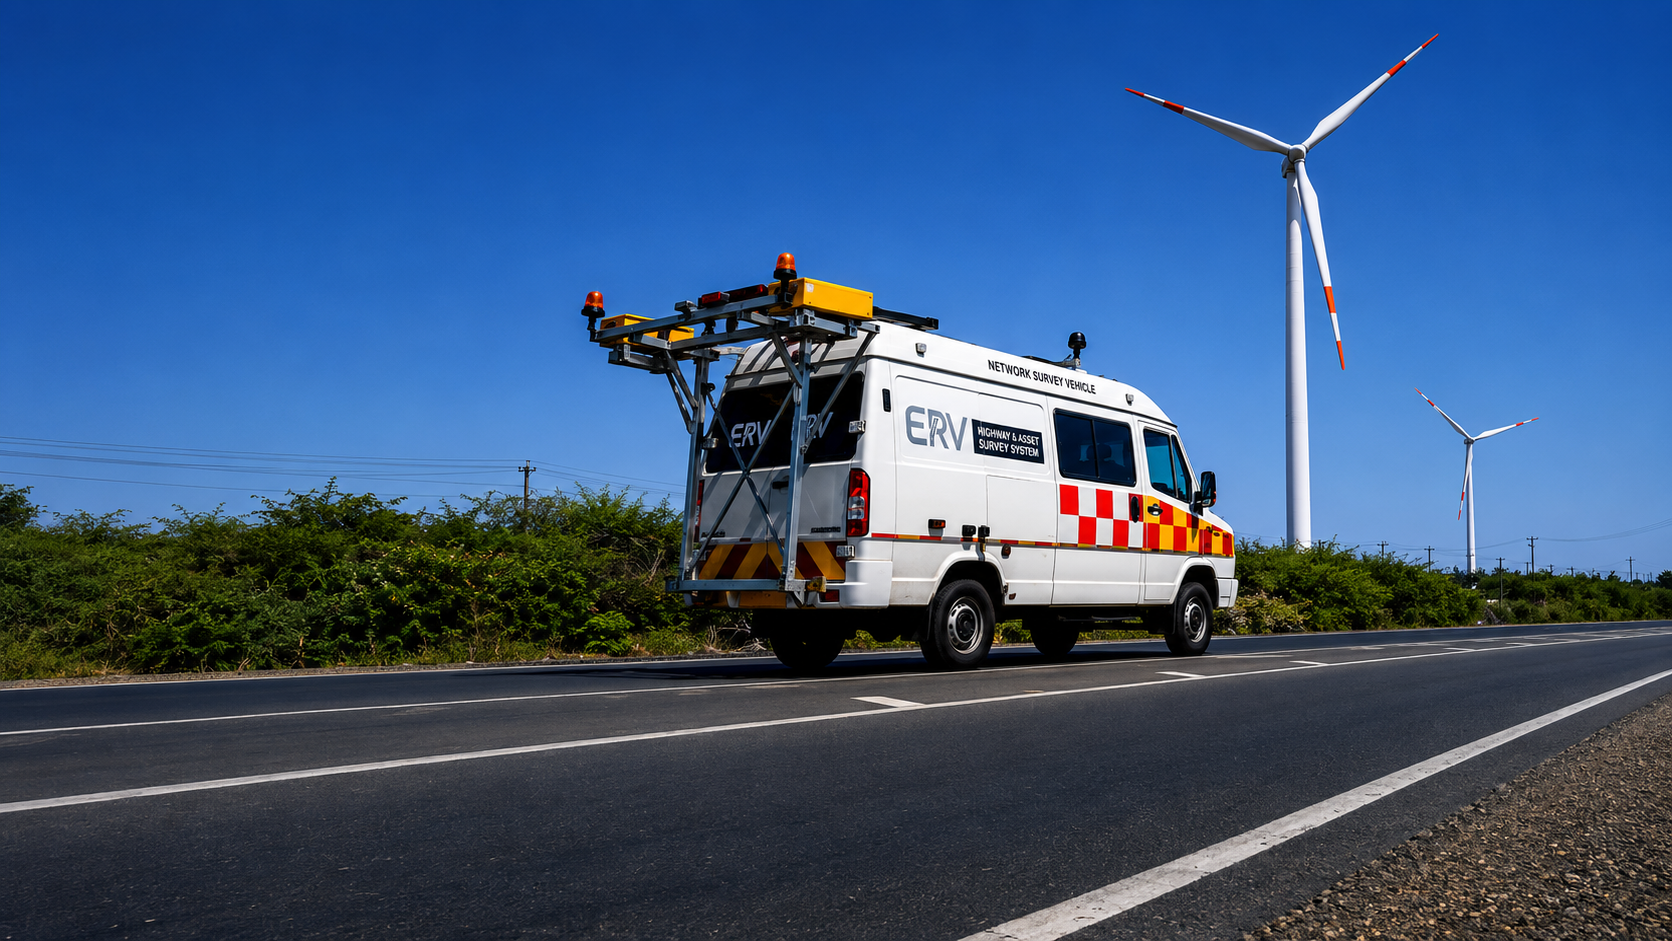
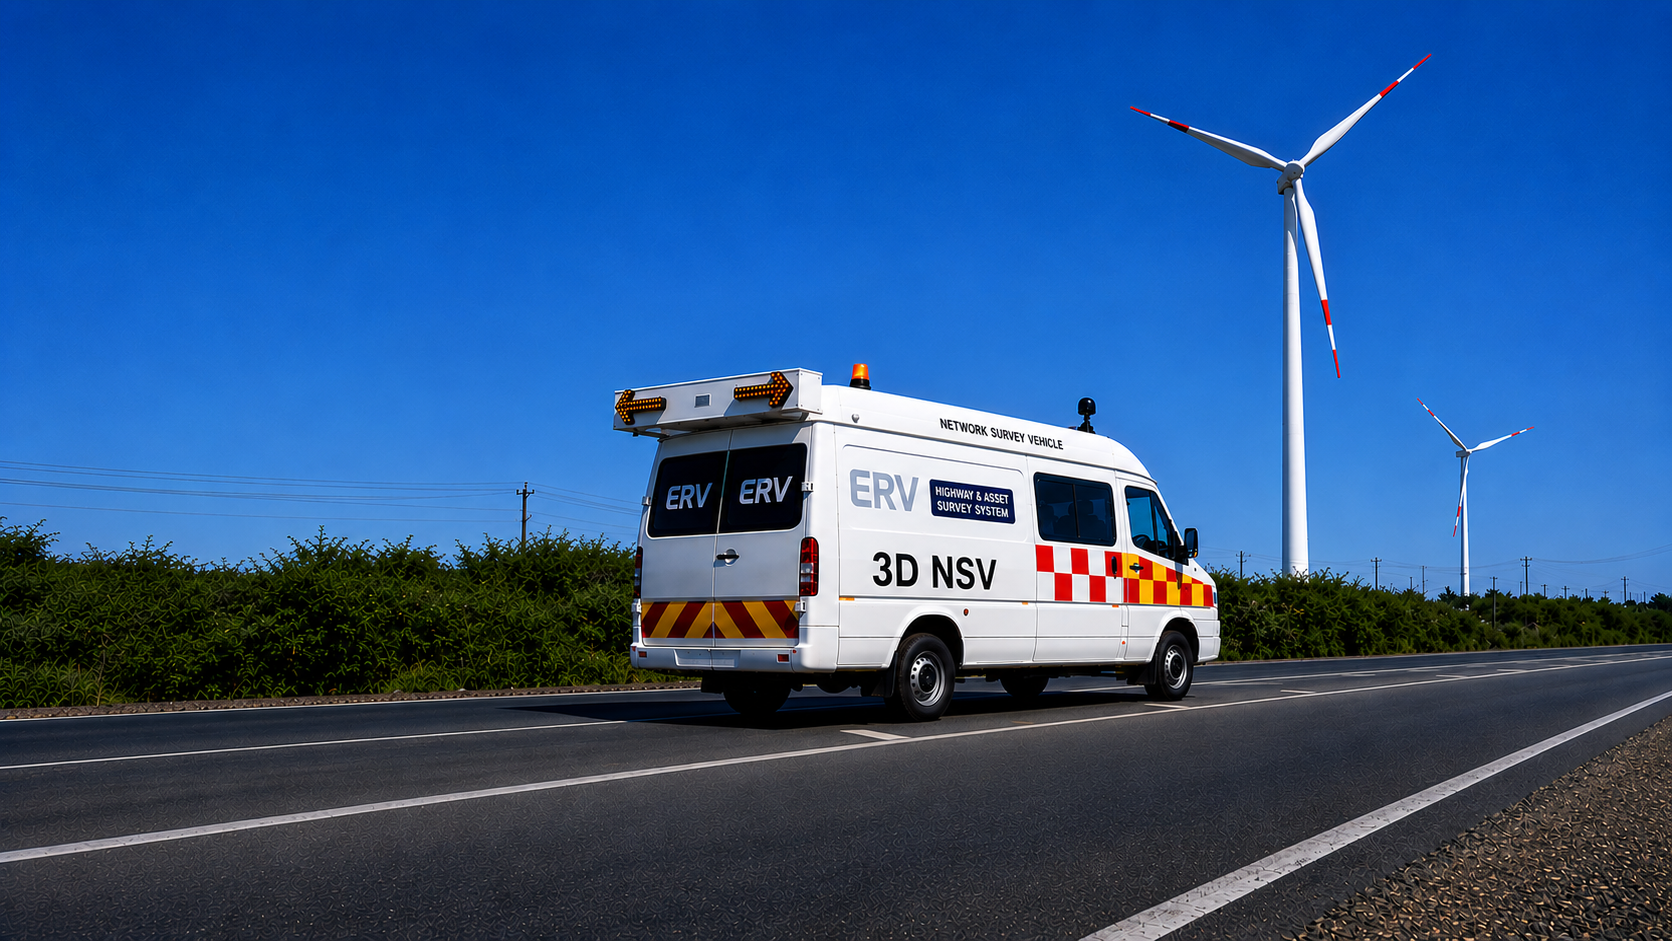
Improve homepage UI and add Why ERV section

diff --git a/frontend/src/components/Navbar.jsx b/frontend/src/components/Navbar.jsx
@@ -1,19 +1,73 @@
 import React, { useEffect, useState } from 'react';
+import { AnimatePresence, motion } from 'framer-motion';
 import { Menu, Search, X } from 'lucide-react';
 import Logo from './Logo';
 
 const navItems = ['Home', 'About Us', 'Products', 'Gallery', 'Careers', 'Contact'];
 
+const productDropdownItems = [
+  'Network Survey Vehicle (NSV)',
+  'Mobile Bridge Inspecting Unit (MBIU)',
+  'Falling Weight Deflectometer (FWD)',
+];
+
 export function Navbar() {
   const [open, setOpen] = useState(false);
+  const [activeSection, setActiveSection] = useState('Home');
+  const [productsOpen, setProductsOpen] = useState(false);
+
+  const handleProductsHover = (value) => setProductsOpen(value);
 
   useEffect(() => {
     const closeOnResize = () => {
       if (window.innerWidth >= 768) setOpen(false);
     };
 
+    const normalized = (value) => value.toLowerCase().replace(/\s/g, '');
+    const updateActiveFromHash = () => {
+      const hash = window.location.hash.slice(1).toLowerCase();
+      const section = navItems.find((item) => normalized(item) === hash);
+      if (section) {
+        setActiveSection(section);
+      } else if (!hash) {
+        setActiveSection('Home');
+      }
+    };
+
+    const observer = new IntersectionObserver(
+      (entries) => {
+        const visibleSections = entries.filter((entry) => entry.isIntersecting);
+        if (visibleSections.length > 0) {
+          const bestSection = visibleSections.reduce((best, entry) =>
+            entry.intersectionRatio > best.intersectionRatio ? entry : best
+          );
+          const sectionId = bestSection.target.id;
+          const section = navItems.find((item) => normalized(item) === sectionId);
+          if (section) setActiveSection(section);
+        }
+      },
+      {
+        root: null,
+        rootMargin: '-45% 0px -45% 0px',
+        threshold: [0.25, 0.5, 0.75],
+      }
+    );
+
+    const sectionIds = navItems.map((item) => normalized(item));
+    sectionIds.forEach((id) => {
+      const section = document.getElementById(id);
+      if (section) observer.observe(section);
+    });
+
     window.addEventListener('resize', closeOnResize);
-    return () => window.removeEventListener('resize', closeOnResize);
+    window.addEventListener('hashchange', updateActiveFromHash);
+    updateActiveFromHash();
+
+    return () => {
+      observer.disconnect();
+      window.removeEventListener('resize', closeOnResize);
+      window.removeEventListener('hashchange', updateActiveFromHash);
+    };
   }, []);
 
   return (
@@ -25,19 +79,67 @@ export function Navbar() {
 
         <div className="hidden items-center gap-[34px] md:flex">
           {navItems.map((item) => {
-            const active = item === 'Home';
+            const active = activeSection === item;
+            if (item === 'Products') {
+              return (
+                <div
+                  key={item}
+                  className="relative"
+                  onMouseEnter={() => handleProductsHover(true)}
+                  onMouseLeave={() => handleProductsHover(false)}
+                >
+                  <a
+                    href={`#${item.toLowerCase().replace(/\s/g, '')}`}
+                    className={`group relative py-2 text-[17px] font-semibold tracking-normal transition-colors duration-300 ${
+                      active ? 'text-[#38BDF8]' : 'text-white hover:text-[#60A5FA]'
+                    }`}
+                  >
+                    {item}
+                    <span
+                      className="absolute -bottom-4 left-0 h-[2px] w-0 bg-[#38BDF8] origin-left transition-all duration-300 group-hover:w-full"
+                    />
+                  </a>
+
+                  <AnimatePresence>
+                    {productsOpen && (
+                      <motion.div
+                        initial={{ opacity: 0, y: -8 }}
+                        animate={{ opacity: 1, y: 0 }}
+                        exit={{ opacity: 0, y: -8 }}
+                        transition={{ duration: 0.3, ease: 'easeOut' }}
+                        className="absolute left-0 top-full z-50 mt-3 w-[300px] rounded-2xl border border-white/10 bg-[#111111]/[0.98] p-4 shadow-[0_30px_80px_rgba(0,0,0,0.32)]"
+                      >
+                        <div className="absolute left-6 top-[-8px] h-3 w-3 rotate-45 rounded-sm bg-[#111111]/[0.98] border-l border-t border-white/10" />
+                        <div className="flex flex-col gap-2">
+                          {productDropdownItems.map((product) => (
+                            <a
+                              key={product}
+                              href={`#${product.toLowerCase().replace(/\s/g, '')}`}
+                              className="block rounded-2xl px-3 py-3 text-white transition-all duration-300 hover:text-[#38BDF8] hover:translate-x-1"
+                            >
+                              {product}
+                            </a>
+                          ))}
+                        </div>
+                      </motion.div>
+                    )}
+                  </AnimatePresence>
+                </div>
+              );
+            }
+
             return (
               <a
                 key={item}
                 href={item === 'Search' ? '/search' : `#${item.toLowerCase().replace(/\s/g, '')}`}
-                className={`relative py-2 text-[17px] font-semibold tracking-normal transition-colors duration-300 ${
+                className={`group relative py-2 text-[17px] font-semibold tracking-normal transition-colors duration-300 ${
                   active ? 'text-[#38BDF8]' : 'text-white hover:text-[#60A5FA]'
                 }`}
               >
                 {item}
-                {active ? (
-                  <span className="absolute -bottom-4 left-0 h-px w-full bg-[#38BDF8]" />
-                ) : null}
+                <span
+                  className="absolute -bottom-4 left-0 h-[2px] w-0 bg-[#38BDF8] origin-left transition-all duration-300 group-hover:w-full"
+                />
               </a>
             );
           })}

diff --git a/frontend/src/pages/public/WhyERVSection.jsx b/frontend/src/pages/public/WhyERVSection.jsx
@@ -1,0 +1,56 @@
+import React from 'react';
+import { BarChart3, ShieldCheck, Sparkles } from 'lucide-react';
+
+export default function WhyERVSection() {
+  const cards = [
+    {
+      title: 'Advanced Expertise',
+      description:
+        'Decades of road assessment and surveying experience drive smarter infrastructure decisions and maintenance planning.',
+      icon: BarChart3,
+    },
+    {
+      title: 'Proven Solutions',
+      description:
+        'Trusted, tested, and deployed technology that delivers measurable results for road asset management worldwide.',
+      icon: ShieldCheck,
+    },
+    {
+      title: 'Safety First',
+      description:
+        'Intelligent systems built to extend asset life and create safer journeys through data-driven road intelligence.',
+      icon: Sparkles,
+    },
+  ];
+
+  return (
+    <section className="relative -mt-[230px] w-full bg-[#01030A] pt-[-100px] pb-24">
+      <div className="mx-auto max-w-[1720px] px-6 sm:px-8 lg:px-12">
+        <div className="mx-auto max-w-[960px] text-center">
+          <p className="text-sm font-semibold uppercase tracking-[0.28em] text-[#2EA7FF]">Why ERV</p>
+          <h2 className="mt-6 text-[44px] font-[550] leading-[1.05] text-white" style={{ fontFamily: 'Outfit, sans-serif' }}>
+            Reveal Hidden Road Risks: ERV&apos;s Data-Powered Intelligence
+          </h2>
+          <p className="mx-auto mt-6 max-w-[740px] text-[20px] leading-[1.75] text-[#C8D0D9]">
+            Our solutions uncover unseen issues, optimize maintenance strategies, and keep infrastructure safer with precision insights.
+          </p>
+        </div>
+
+        <div className="mt-16 grid gap-6 lg:grid-cols-3">
+          {cards.map((card) => {
+            const Icon = card.icon;
+            return (
+              <div key={card.title} className="rounded-[24px] border border-white/10 bg-white/5 p-8 text-white shadow-[0_40px_120px_rgba(0,0,0,0.25)]">
+                <div className="flex h-14 w-14 items-center justify-center rounded-full bg-[#111827] text-[#2EA7FF]">
+                  <Icon className="h-6 w-6" strokeWidth={1.8} />
+                </div>
+                <h3 className="mt-6 text-[22px] font-semibold leading-tight">{card.title}</h3>
+                <p className="mt-4 text-[17px] leading-[1.75] text-[#C8D0D9]">{card.description}</p>
+              </div>
+            );
+          })}
+        </div>
+      </div>
+    </section>
+  );
+}

diff --git a/frontend/src/pages/public/HomePage.jsx b/frontend/src/pages/public/HomePage.jsx
@@ -4,14 +4,15 @@ import Logo from '../../components/Logo';
 import Navbar from '../../components/Navbar';
 import SEO from '../../components/SEO';
 import heroImage from '../../assets/hero.png';
+import WhyERVSection from './WhyERVSection';
 
 const heroLines = ['Intelligent Solutions', 'for a Connected Future'];
 
 const stats = [
-  { value: '2018', label: 'Established', icon: CalendarDays },
-  { value: '100+', label: 'Projects', icon: MapPin },
-  { value: '4+', label: 'Countries', icon: Globe2 },
-  { value: '50+', label: 'Clients', icon: Users },
+  { value: '2025', label: 'Established', icon: CalendarDays },
+  { value: '50+', label: 'Projects', icon: MapPin },
+  { value: '10+', label: 'Countries', icon: Globe2 },
+  { value: '1000+', label: 'Clients', icon: Users },
   { value: '99.9%', label: 'Accuracy', icon: Target },
 ];
 
@@ -29,11 +30,11 @@ function HeroHeading() {
 
 function StatsCard() {
   return (
-    <div className="mt-12 grid w-full grid-cols-2 gap-3 rounded-[24px] border border-white/8 bg-[rgba(10,10,10,0.95)] p-[34px] backdrop-blur-[10px] text-white sm:grid-cols-5 sm:gap-4">
+    <div className="mt-12 grid w-[1120px] grid-cols-2 gap-3 rounded-[24px] border border-white/8 bg-[rgba(10,10,10,0.95)] pt-[34px] pb-[34px] pl-[34px] pr-[18px] backdrop-blur-[10px] text-white sm:grid-cols-5 sm:gap-2">
       {stats.map((stat) => {
         const Icon = stat.icon;
         return (
-          <div key={stat.value} className="flex flex-col items-center justify-center gap-3 text-center">
+          <div key={stat.value} className="flex w-[190px] h-[140px] flex-col items-center justify-center gap-3 rounded-[20px] border border-white/8 bg-white/[0.02] text-center">
             <div className="flex h-11 w-11 items-center justify-center rounded-full border border-white/10 bg-white/5 text-[#38BDF8]">
               <Icon className="h-5 w-5" strokeWidth={1.8} />
             </div>
@@ -65,10 +66,10 @@ export function HomePage() {
       />
       <Navbar />
 
-      <section className="relative min-h-screen bg-[#01030A]">
+      <section className="relative bg-[#01030A]">
         <div className="absolute right-0 top-0 bottom-0 bg-[#01030A]" />
 
-        <div className="relative z-10 mx-auto flex min-h-screen max-w-[1720px] flex-col px-6 pt-[104px] sm:px-8 lg:flex-row lg:items-center lg:gap-6 lg:px-12 lg:pt-[72px]">
+        <div className="relative z-10 mx-auto flex max-w-[1720px] flex-col px-6 pt-[104px] sm:px-8 lg:flex-row lg:items-center lg:gap-6 lg:px-12 lg:pt-[72px] pb-0">
           <div className="flex w-full flex-col justify-center lg:w-[37%] -mt-70">
             <div className="flex items-center gap-4">
              <div className="h-[2px] w-[44px] rounded-full bg-[#2EA7FF]" />
@@ -89,20 +90,20 @@ export function HomePage() {
                 <ArrowRight className="h-5 w-5 text-[#2EA7FF]" strokeWidth={2} />
               </a>
             </div>
-            <div className="mt-[30px] sm:mt-[34px]">
+            <div className="relative z-20 mt-[30px] sm:mt-[34px]">
               <StatsCard />
             </div>
           </div>
 
-          <div className="relative mt-0 h-[1100px] w-full lg:w-[100%] overflow-hidden">
+          <div className="relative mt-0 h-[1100px] w-full lg:w-[100%] overflow-visible">
             <img
               src={heroImage}
               alt="NSV vehicle"
               className="absolute inset-0 w-full h-[75%] object-contain"
-              style={{ top: "-15%",left: "0", objectPosition: "72% center" }}
+              style={{ top: "-15%",left: "0%", objectPosition: "72% center" }}
             />
             <div
-              className="absolute inset-y-0 left-0 w-full"
+              className="absolute top-0 left-0 h-[75%] w-full"
               style={{
                 background: 'linear-gradient(90deg, rgba(0,0,0,0.96) 0%, rgba(0,0,0,.88) 14%, rgba(0,0,0,.72) 24%, rgba(0,0,0,.42) 38%, rgba(0,0,0,.12) 52%, rgba(0,0,0,.00) 65%)'
               }}
@@ -110,6 +111,7 @@ export function HomePage() {
           </div>
         </div>
       </section>
+      <WhyERVSection />
     </main>
   );
 }